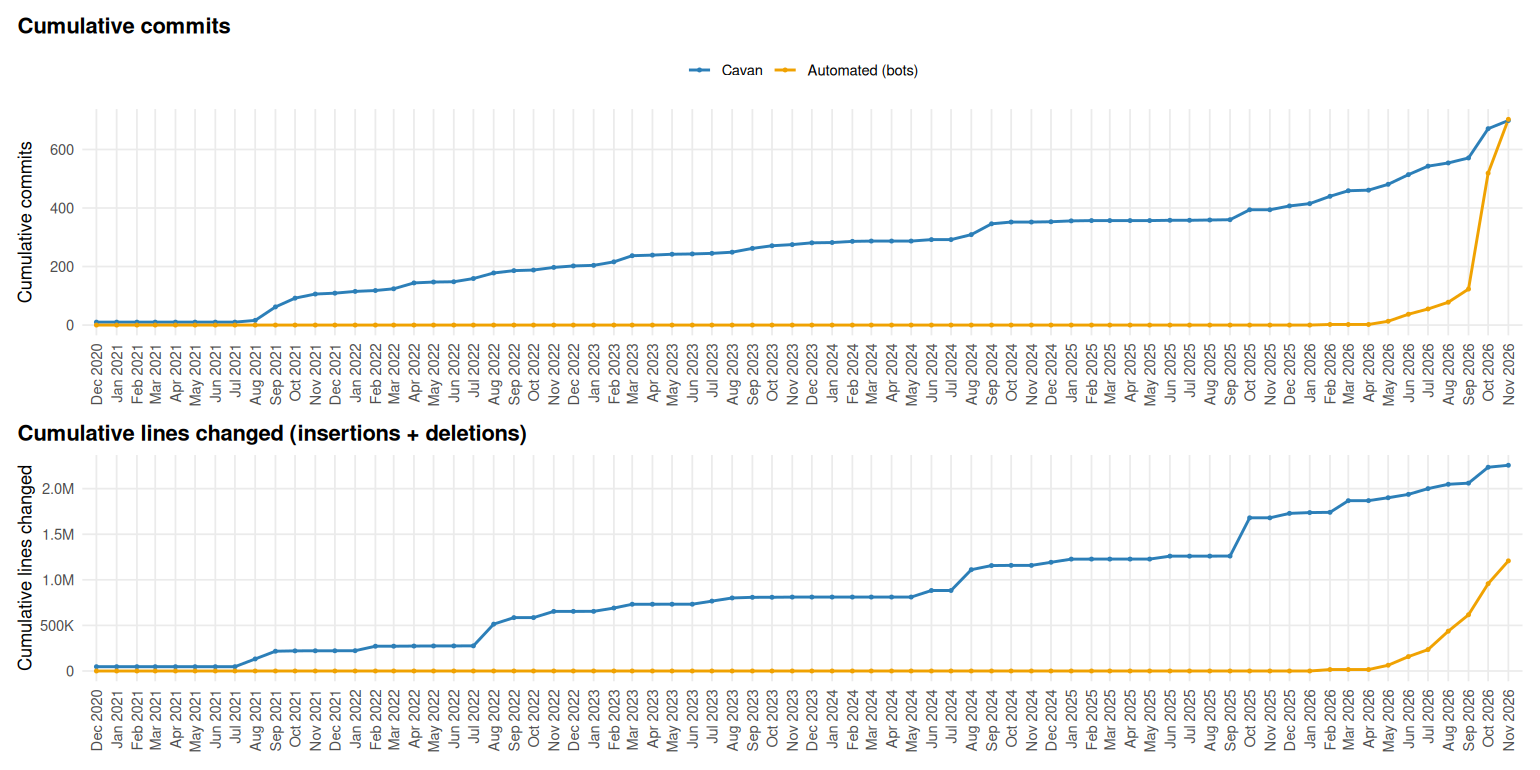
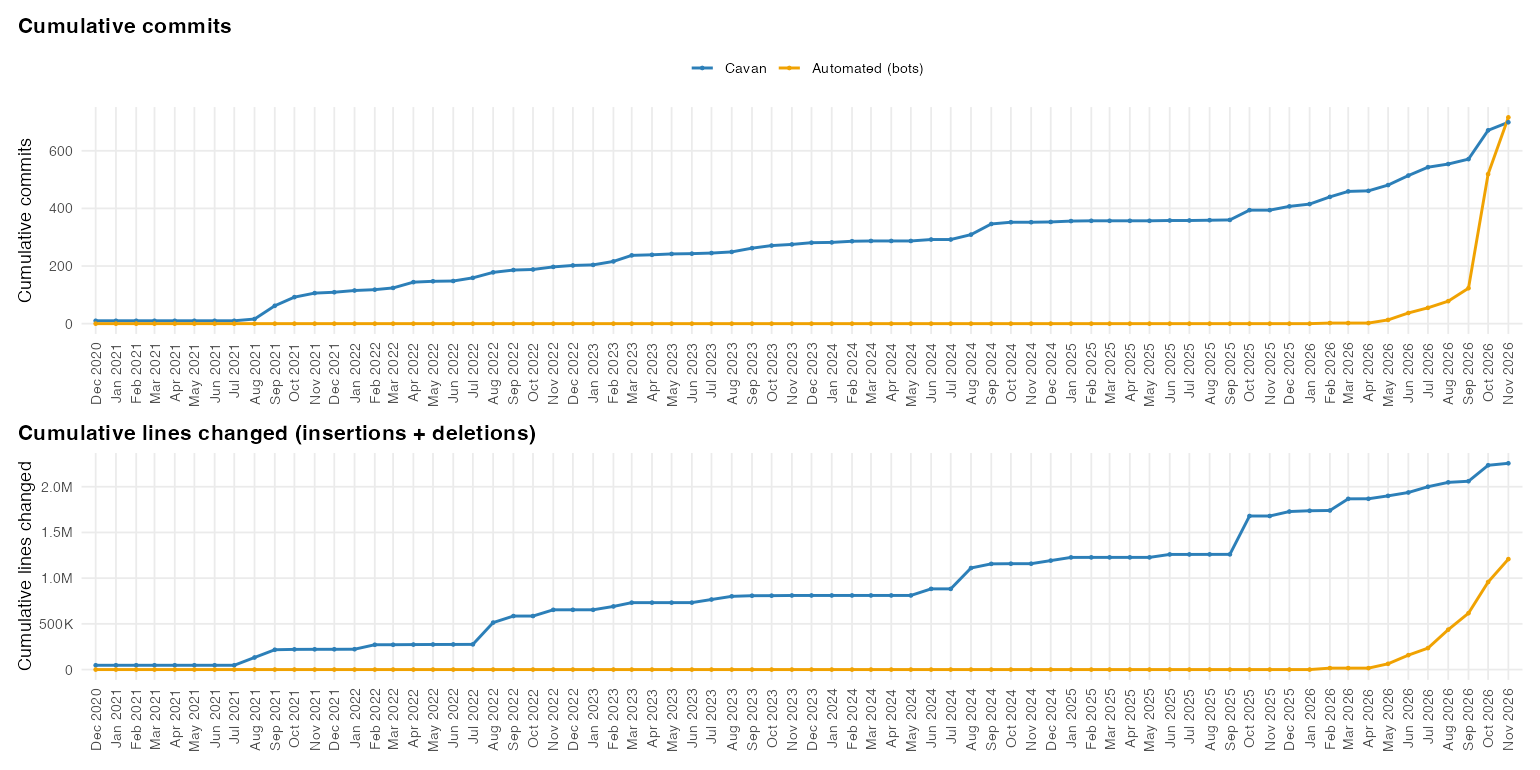
Render README activity charts with ragg so legend labels aren't clipped (#363)
The default png device on the Linux runner measures legend text narrower
than it draws, which shaves the edge off the Cavan label. ragg uses the
same font metrics for measuring and drawing, and it's already in renv.lock.

diff --git a/README.md b/README.md
@@ -258,8 +258,8 @@ above. Regenerated each time `README.Rmd` is knit.
 
 <img src="images/readme/commit-activity-cumulative-1.png" alt="Two cumulative line charts showing total commits and total lines changed (insertions + deletions) over time, split by Cavan's own commits vs. scheduled-bot commits."  />
 
-*1,402 commits from Dec 2020 to Nov 2026 (699 by me, 703 by scheduled
-bots), touching 3,464,001 lines in total.*
+*1,415 commits from Dec 2020 to Nov 2026 (699 by me, 716 by scheduled
+bots), touching 3,464,466 lines in total.*
 
 ## Setup and Local Development
 
